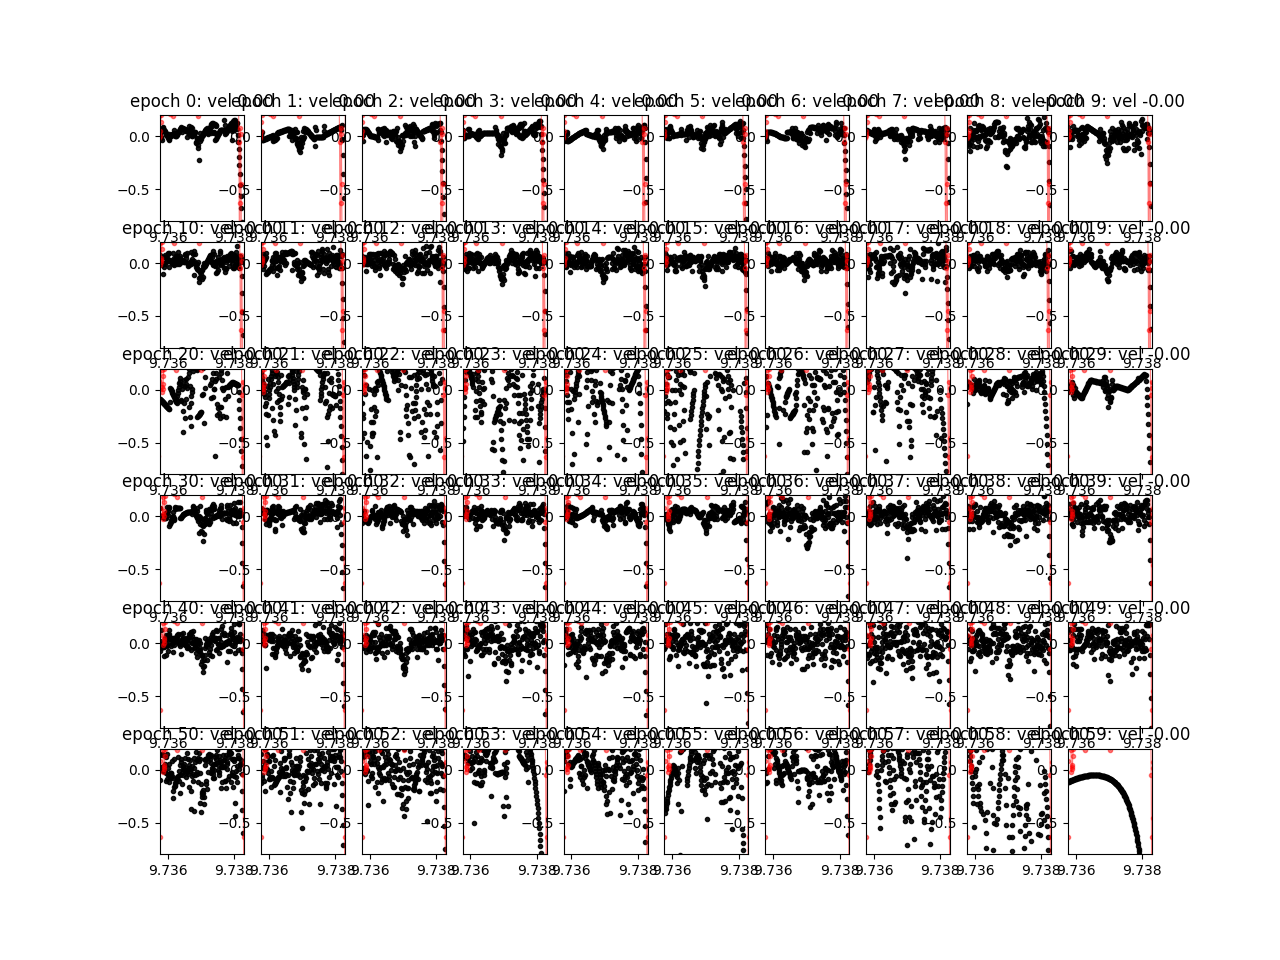
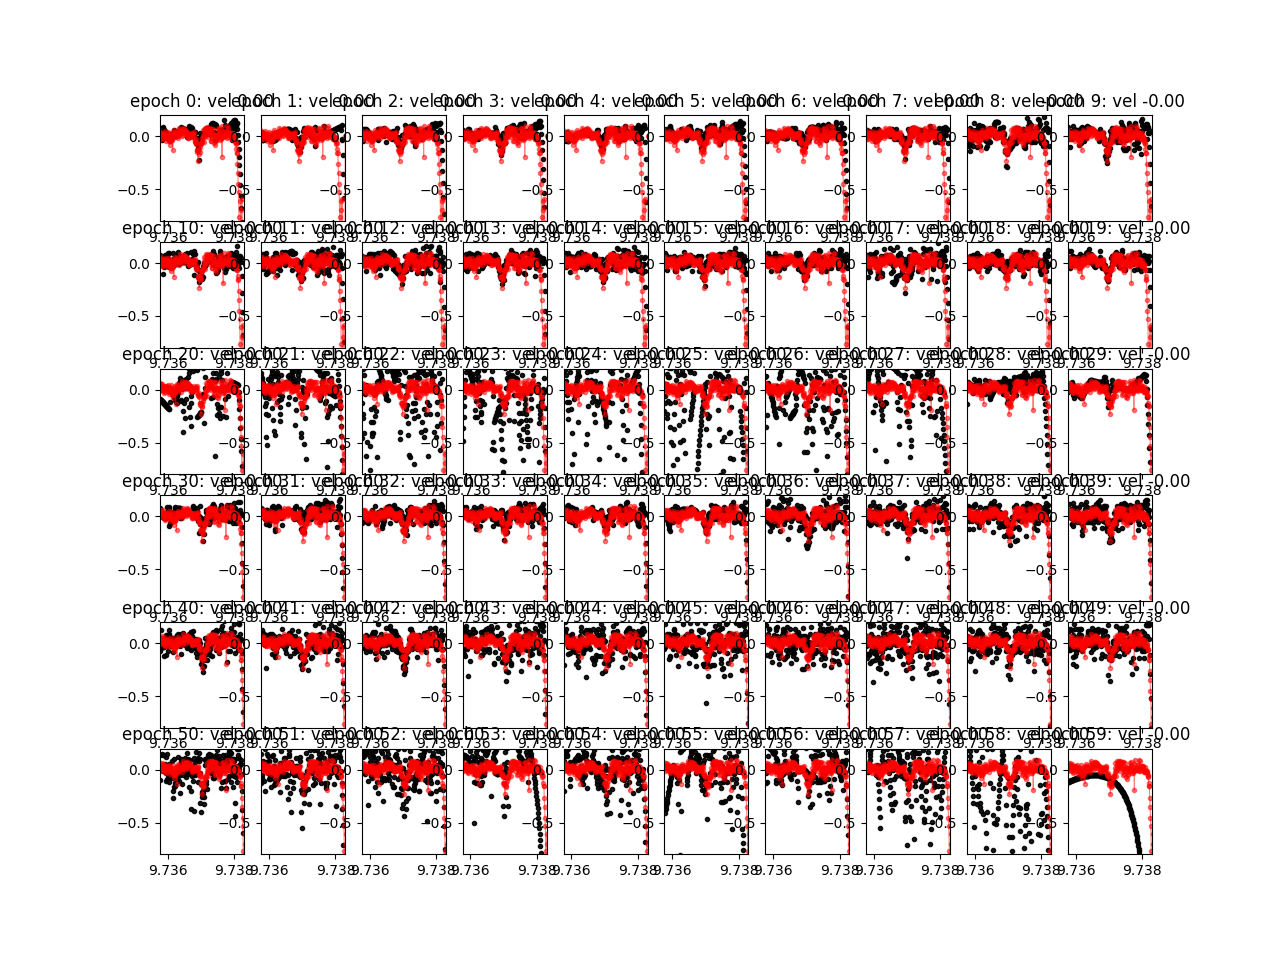
added velocity fitting model class

diff --git a/model.py b/model.py
@@ -112,7 +112,7 @@ class LinModel():
             # added the shifted to the freq dist so subtract shift from model
             # print(type(self.x - self.shifted[i]),type(self.xs[i,:]))
             self.cell_array[i,:] = getCellArray(self.x - self.shifted[i],self.xs[i,:])
-        self.params = np.ones(num_params)
+        self.params = np.zeros(num_params)
 
     def __call__(self,params,input,epoch_idx,*args):
         # print(type(self),type(x),type(i))
@@ -165,10 +165,10 @@ class LinModel():
         #      = jax.value_and_grad(loss, argnums=0)
         #     return
         func_grad = jax.value_and_grad(loss, argnums=0)
-        def whatversht(p,*args):
+        def whatevershit(p,*args):
             val, grad = func_grad(p,*args)
             return np.array(val,dtype='f8'),np.array(grad,dtype='f8')
-        res = scipy.optimize.minimize(whatversht, self.params, jac=True,
+        res = scipy.optimize.minimize(whatevershit, self.params, jac=True,
                method='L-BFGS-B',
                args=(self,*args),
                options={'maxiter':maxiter})
@@ -258,10 +258,22 @@ class FourierModel(LinModel):
         plt.plot(self.xs[0,:],self.predict(self.xs[0,:]))
 
 class JnpLin(LinModel):
+
+    def __call__(self,params,input,epoch_idx,*args):
+        ys = jax.numpy.interp(input, self.x - self.shifted[epoch_idx], params)
+        return ys
+
+def JnpVelLin(LinModel):
     def __init__(self,num_params,y,x,vel_shifts):
-        self.epoches = y.shape[0]
+        self.epoches = len(vel_shifts)
+        # when defining ones own model, need to include inputs as xs, outputs as ys
+        # and __call__ function that gets ya ther, and params (1d ndarray MUST BE BY SCIPY) to be fit
+        # also assumes epoches of data that is shifted between
         self.xs = x
         self.ys = y
+
+        self.size = x.shape[1]
+        # print(self.size)
 
         self.shifted = vel_shifts
 
@@ -271,11 +283,24 @@ class JnpLin(LinModel):
         maximum = self.xs.max()
         self.x = np.linspace(minimum-self.padding,maximum+self.padding,num_params)
 
-        self.params = jnp.zeros(num_params)
+        # the model x's must be shifted appropriately
+        # this might have to be moved to the forward section if velocity is fit bt evals of ys
+
+        # given x cells are shifted, the cell arrays contain the information for
+        # which data points are in which cells
+        self.cell_array = np.zeros([self.epoches,self.size],dtype=int)
+        for i in range(self.epoches):
+            # print((self.x - self.shifted[i]).shape)
+            # print(self.xs.shape)
+            # added the shifted to the freq dist so subtract shift from model
+            # print(type(self.x - self.shifted[i]),type(self.xs[i,:]))
+            self.cell_array[i,:] = getCellArray(self.x - self.shifted[i],self.xs[i,:])
+        self.params = np.zeros(num_params)
+        self.params = np.concatenate(self.params,self.shifted)
 
     def __call__(self,params,input,epoch_idx,*args):
-        ys = jax.numpy.interp(input, self.x - self.shifted[epoch_idx], params)
+        ys = jax.numpy.interp(input, self.x - params[self.epoches:], params[:-self.epoches])
         return ys
 
-    def plot_model(self,i):
-        plt.plot(self.x - self.shifted[i],self.params,'.r',linestyle='solid',linewidth=.8,zorder=2,alpha=0.5,ms=6)
+    # def plot_model(self,i):
+    #     plt.plot(self.x - self.shifted[i],self.params,'.r',linestyle='solid',linewidth=.8,zorder=2,alpha=0.5,ms=6)
